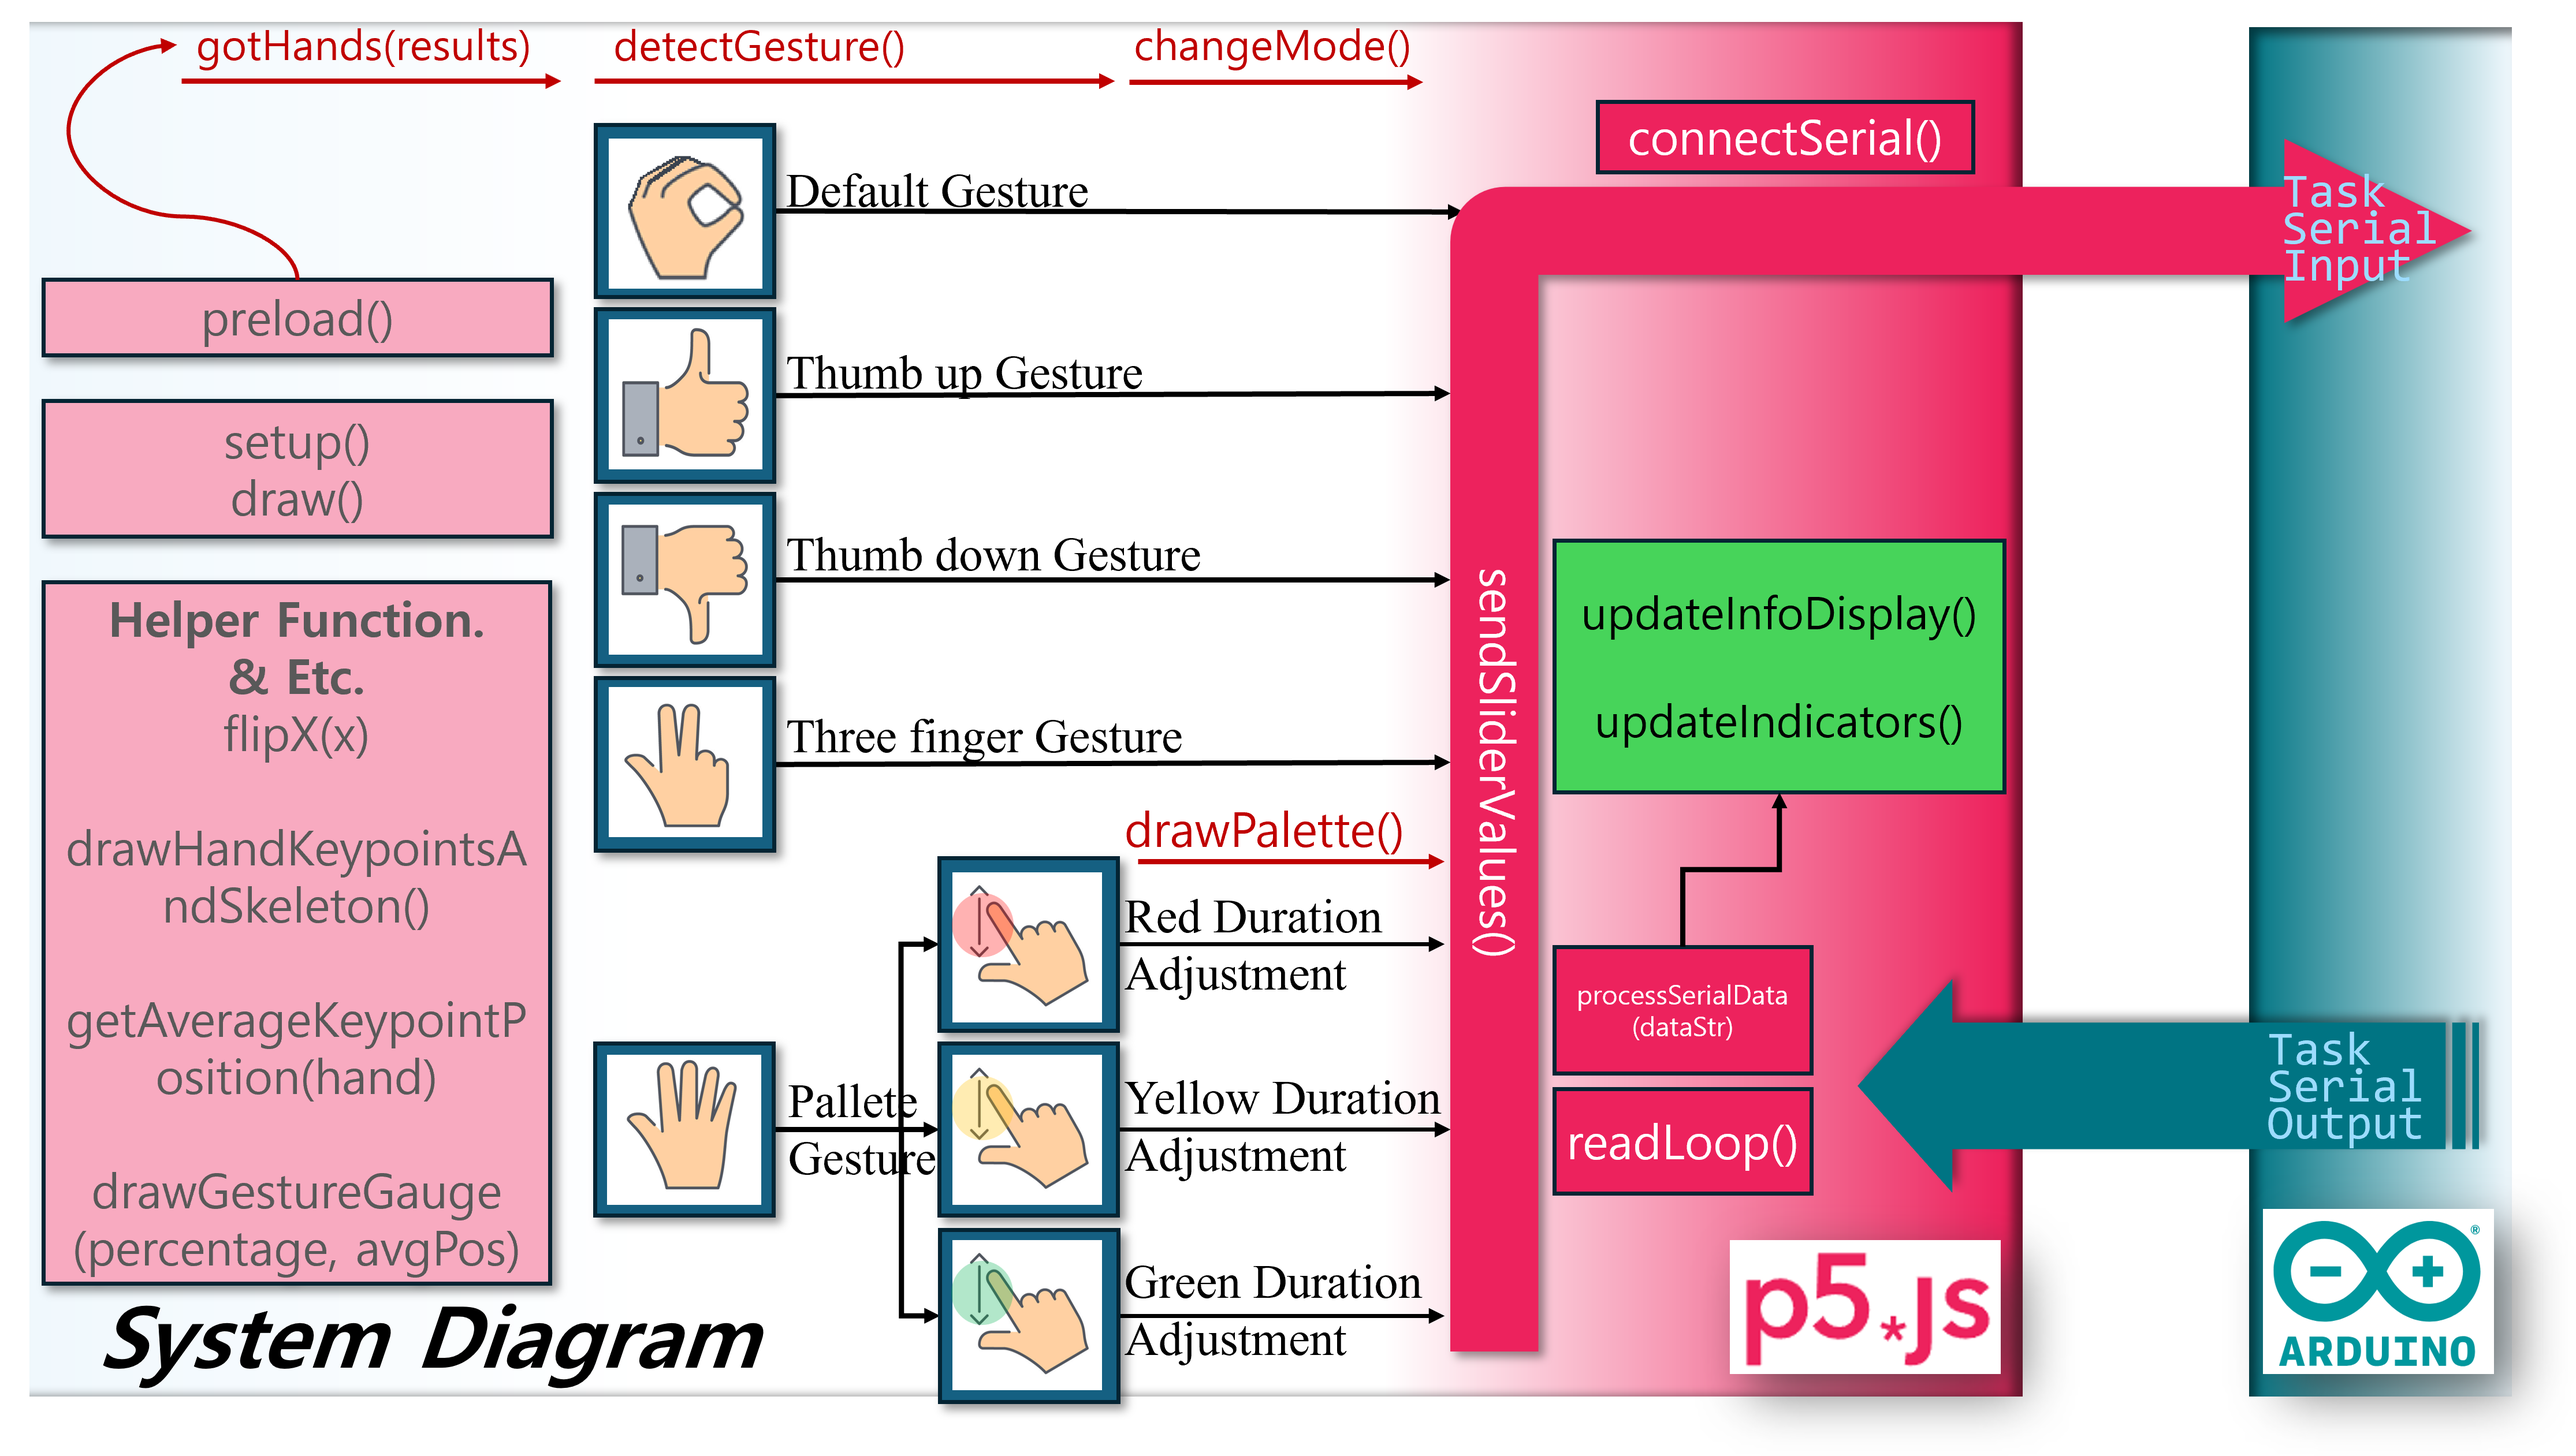
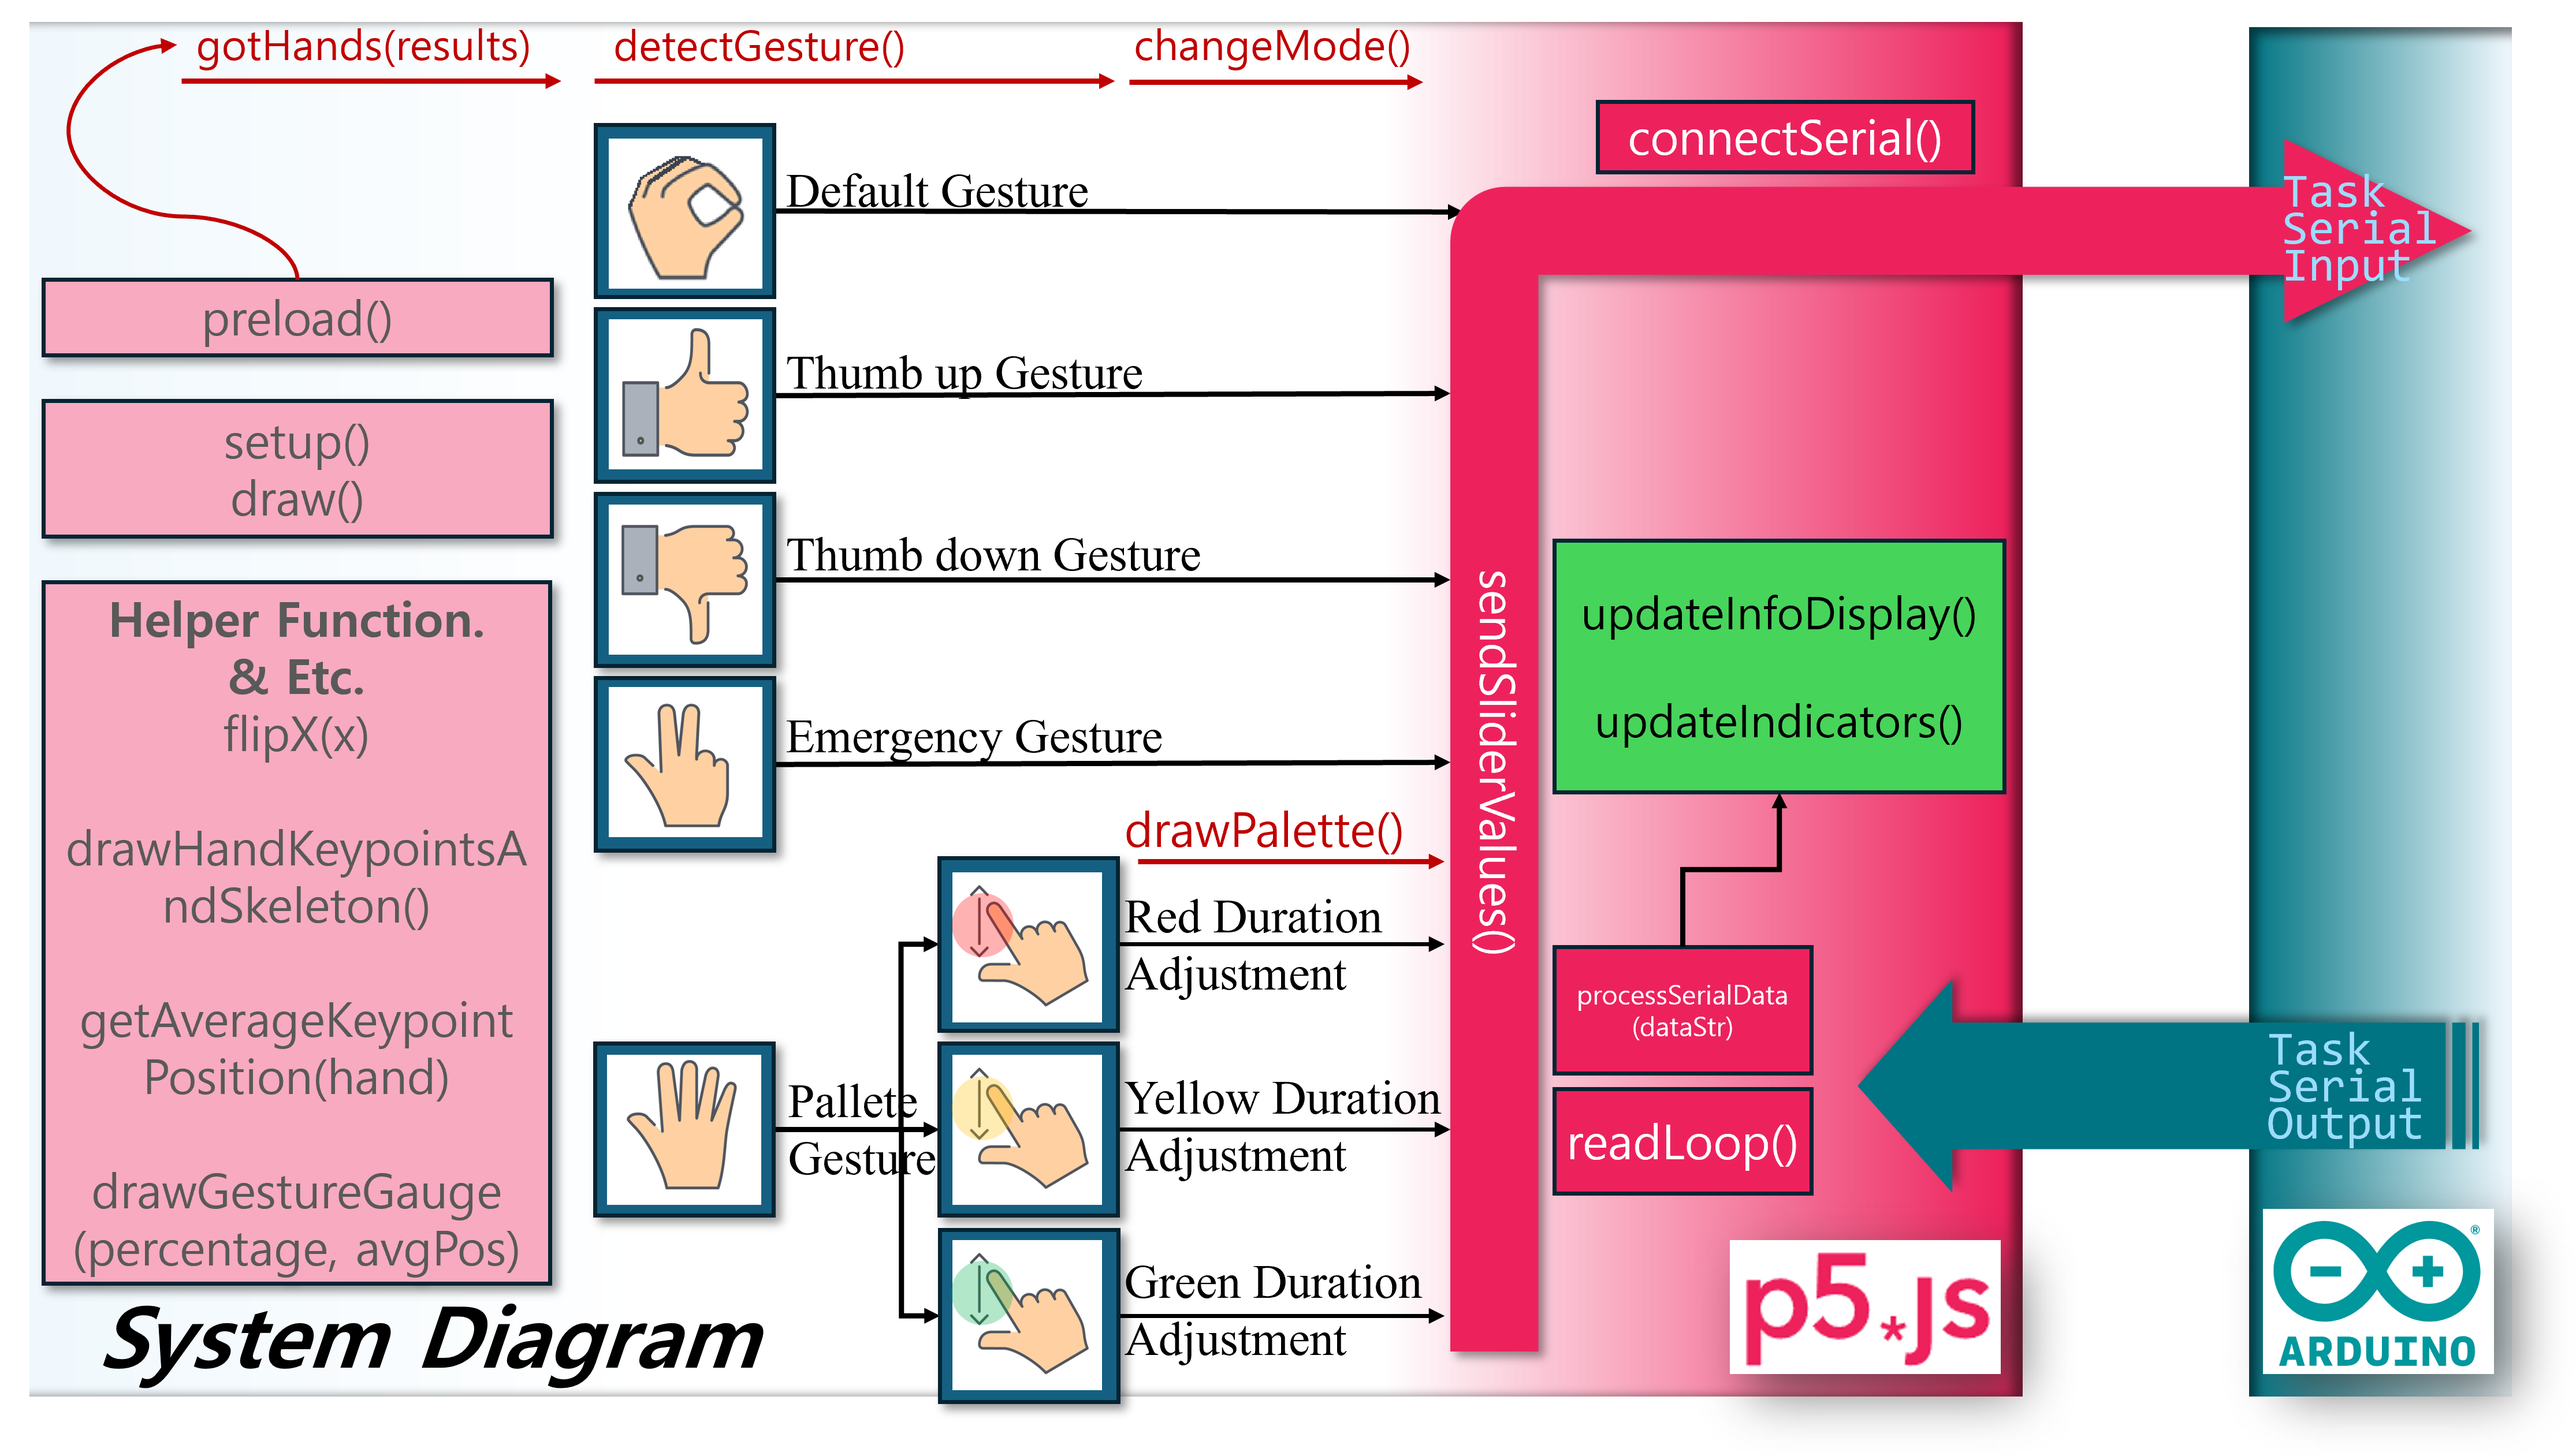
test

diff --git a/p5/style.css b/p5/style.css
@@ -52,25 +52,10 @@ body {
   box-shadow: 0 2px 8px rgba(0,0,0,0.2);
   padding: 8px; 
   min-height: 0; 
-  font-size: 12px; /* 원하는 크기로 조정 (예: 14px) */
+  font-size: 40px; /* 원하는 크기로 조정 (예: 14px) */
 
 }
 
-/* 테이블 스타일 (한 열만 있어도 동일하게 적용) */
-.log-table {
-  width: 100%;
-  border-collapse: collapse;
-  table-layout: fixed; /* 열 너비 고정 */
-}
-.log-table th, .log-table td {
-  border: 1px solid #ccc;
-  padding: 6px 8px;
-  text-align: left;
-  word-wrap: break-word;
-}
-.log-table th {
-  background: #f2f2f2;
-}
 
 /* (사용하지 않는 #logArea 스타일은 제거 또는 주석 처리)
 #logArea {

diff --git a/p5/index.html b/p5/index.html
@@ -75,7 +75,7 @@
           <table id="singleRowTable" class="log-table">
             <thead>
               <tr>
-                <th>현재 시간 / 김형진</th>
+                <th>202101667 / 김형진</th>
               </tr>
             </thead>
             <tbody>

diff --git a/arduino/src/main.cpp b/arduino/src/main.cpp
@@ -288,7 +288,7 @@ void serialInputTaskCallback() {
     int comma2 = (comma1 == -1) ? -1 : input.indexOf(',', comma1 + 1);
     int comma3 = (comma2 == -1) ? -1 : input.indexOf(',', comma2 + 1);
 
-    // 쉼표 3개가 없으면 그냥 무시하거나 에러 메시지
+    // 쉼 표 3개가 없으면 그냥 무시하거나 에러 메시지
     if (comma1 == -1 || comma2 == -1 || comma3 == -1) {
       // 필요하다면 에러 메시지
       Serial.println("Invalid format: must have 3 commas, e.g. 2000,500,2000,");

diff --git a/README.md b/README.md
@@ -105,7 +105,7 @@
 ---
 
 # 임베디드 통신시스템 프로젝트 - 핸드포즈 제어 신호등
-이 확장된 프로젝트는 **ml5.js**의 HandPose 모델로 웹캠에서 감지한 손동작을 분석하고, 이를 아두이노 신호등 제어 로직과 연동하여 **긴급 모드**, ****, **팔레트 모드** 등을 직관적으로 전환할 수 있도록 구성했습니다.
+이 확장된 프로젝트는 **ml5.js**의 HandPose 모델로 웹캠에서 감지한 손동작을 분석하고, 이를 아두이노 신호등 제어 로직과 연동하여 **긴급 모드(적색LED만 ON)**, **모든 LED on/off**, **모든 LED off** **팔레트 모드** 등을 직관적으로 전환할 수 있도록 구성했습니다.
 
 ---
 
@@ -118,6 +118,7 @@
 ## 시스템 다이어그램
 Arduino와 PC(웹 브라우저)가 **시리얼 통신**으로 연결되며,  
 웹 브라우저에서는 **p5.js**로 구성된 UI와 **Web Serial API**를 통해 시리얼 송수신을 처리합니다.
+또한 다양한 손동작(비전패턴)으로 신호등의 모드와 점등 주기를 변동 할 수 있습니다.
 
 ![시스템 다이어그램](image/S2_System_Diagram.png)
 
@@ -141,23 +142,23 @@ Arduino와 PC(웹 브라우저)가 **시리얼 통신**으로 연결되며,
 
 ### 1. 주요 손동작
 
-| 비전         | 패턴 이미지                                | 설명                                                                    |
-|:-------------|:--------------------------------------------|:------------------------------------------------------------------------|
-| **Default**  | ![Default](image/gesture_default.jpg)       | 손가락이 모두 모여 있는 기본 상태, 신호등이 일반 패턴으로 동작              |
-| **Emergency**| ![Emergency](image/gesture_emergency.jpg)   | 엄지·검지·중지를 펴고 약지·새끼 접은 상태 → ‘긴급 모드(패턴)’ 모드로 전환   |
-| **ThumbsUp** | ![ThumbsUp](image/gesture_thumbsup.jpg)     | 엄지만 위로 → ‘모든 LED 깜빡이기(패턴)’ 모드로 전환                       |
-| **ThumbsDown**| ![ThumbsDown](image/gesture_thumbsdown.jpg)| 엄지만 아래로 → ‘모든 LED OFF(패턴)’ 모드로 전환                          |
-| **Palette**  | ![Palette](image/gesture_palette.jpg)       | 다섯 손가락을 펼쳐 ‘팔레트 모드 진입’, LED 색상·주기 조절 UI 활성화            |
+| 비전         | 패턴 이미지                                                                                       | 설명                                                                    |
+|:-------------|:--------------------------------------------------------------------------------------------------|:------------------------------------------------------------------------|
+| **Default**  | <img src="image/gesture_default.jpg" alt="Default" width="150"/>                                  | 손가락이 모두 모여 있는 기본 상태, 신호등이 일반 패턴으로 동작              |
+| **Emergency**| <img src="image/gesture_emergency.jpg" alt="Emergency" width="150"/>                              | 엄지·검지·중지를 펴고 약지·새끼 접은 상태 → ‘긴급 모드(패턴)’ 모드로 전환   |
+| **ThumbsUp** | <img src="image/gesture_thumbsup.jpg" alt="ThumbsUp" width="150"/>                                | 엄지만 위로 → ‘모든 LED 깜빡이기(패턴)’ 모드로 전환                       |
+| **ThumbsDown**| <img src="image/gesture_thumbsdown.jpg" alt="ThumbsDown" width="150"/>                          | 엄지만 아래로 → ‘모든 LED OFF(패턴)’ 모드로 전환                          |
+| **Palette**  | <img src="image/gesture_palette.jpg" alt="Palette" width="150"/>                                  | 다섯 손가락을 펼쳐 ‘팔레트 모드’ 진입, LED 색상·주기 조절 UI 활성화            |
 
 ---
 
 ### 2. 팔레트 모드 색상 선택
 
-| 색상선택    | 패턴 이미지                                     | 설명                                                                          |
-|:-----------:|:-----------------------------------------------:|:------------------------------------------------------------------------------|
-| **빨간 LED** | ![Palette Red](image/palette_red.jpg)           | 엄지·검지를 빨간 원 위에 동시에 위치 → 빨간 LED의 주기(또는 밝기) 조절            |
-| **노랑 LED** | ![Palette Yellow](image/palette_yellow.jpg)     | 엄지·검지를 노란 원 위에 동시에 위치 → 노랑 LED의 주기(또는 밝기) 조절            |
-| **초록 LED** | ![Palette Green](image/palette_green.jpg)       | 엄지·검지를 초록 원 위에 동시에 위치 → 초록 LED의 주기(또는 밝기) 조절            |
+| 색상선택    | 패턴 이미지                                                                                      | 설명                                                                          |
+|:-----------:|:------------------------------------------------------------------------------------------------:|:------------------------------------------------------------------------------|
+| **빨간 LED** | <img src="image/palette_red.jpg" alt="Palette Red" width="150"/>                                | 엄지·검지를 빨간 원 위에 동시에 위치 → 빨간 LED의 주기(또는 밝기) 조절            |
+| **노랑 LED** | <img src="image/palette_yellow.jpg" alt="Palette Yellow" width="150"/>                          | 엄지·검지를 노란 원 위에 동시에 위치 → 노랑 LED의 주기(또는 밝기) 조절            |
+| **초록 LED** | <img src="image/palette_green.jpg" alt="Palette Green" width="150"/>                            | 엄지·검지를 초록 원 위에 동시에 위치 → 초록 LED의 주기(또는 밝기) 조절            |
 
 > **팁**  
 > 팔레트 모드에서 **색상 원 안에 손가락을 일정 시간(약 750ms) 이상 유지**하면,  
